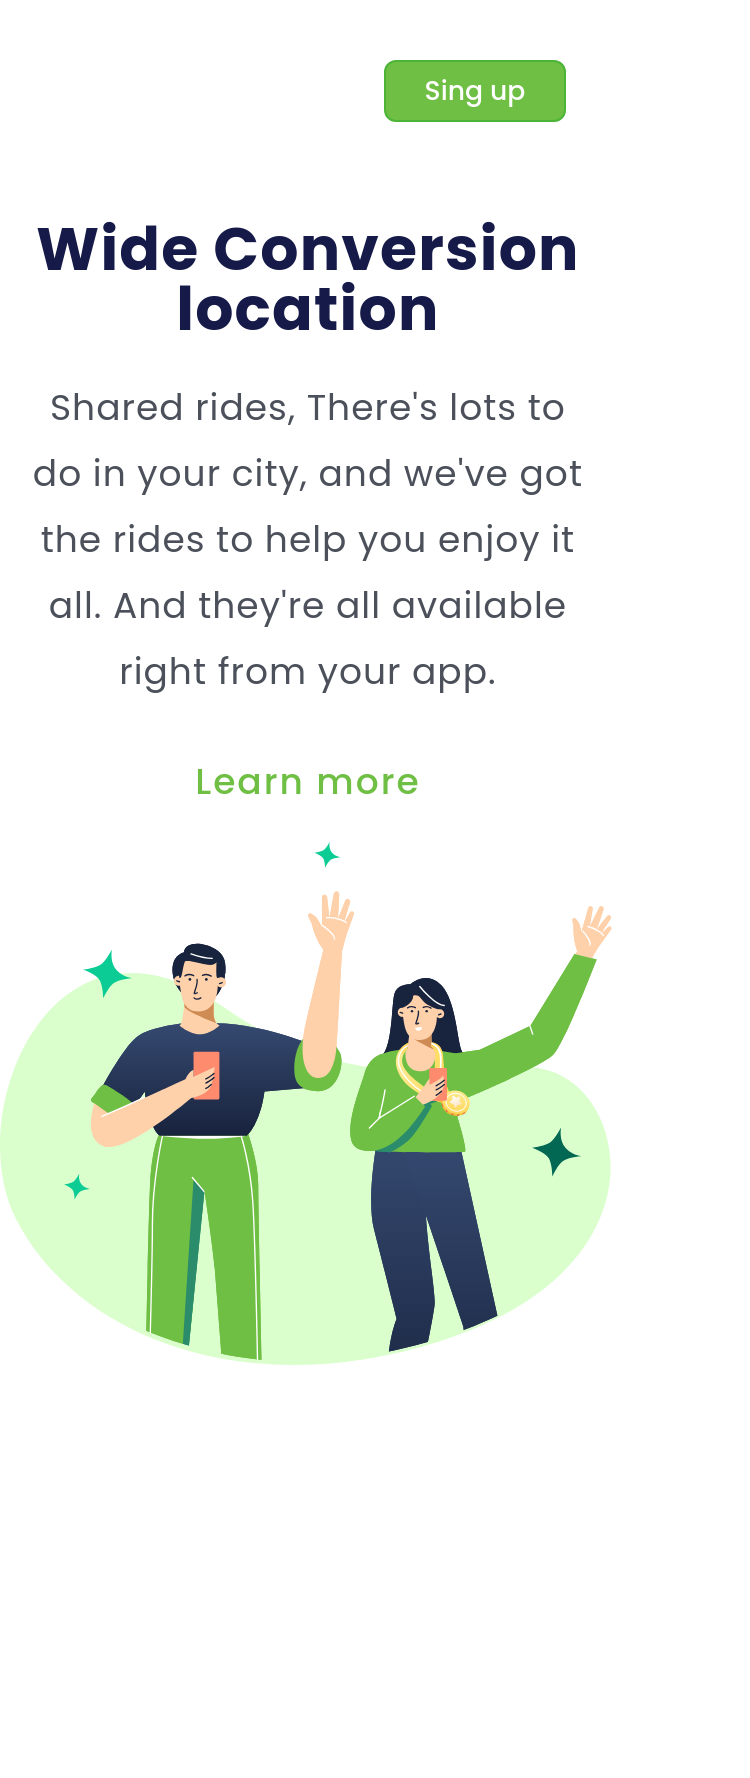
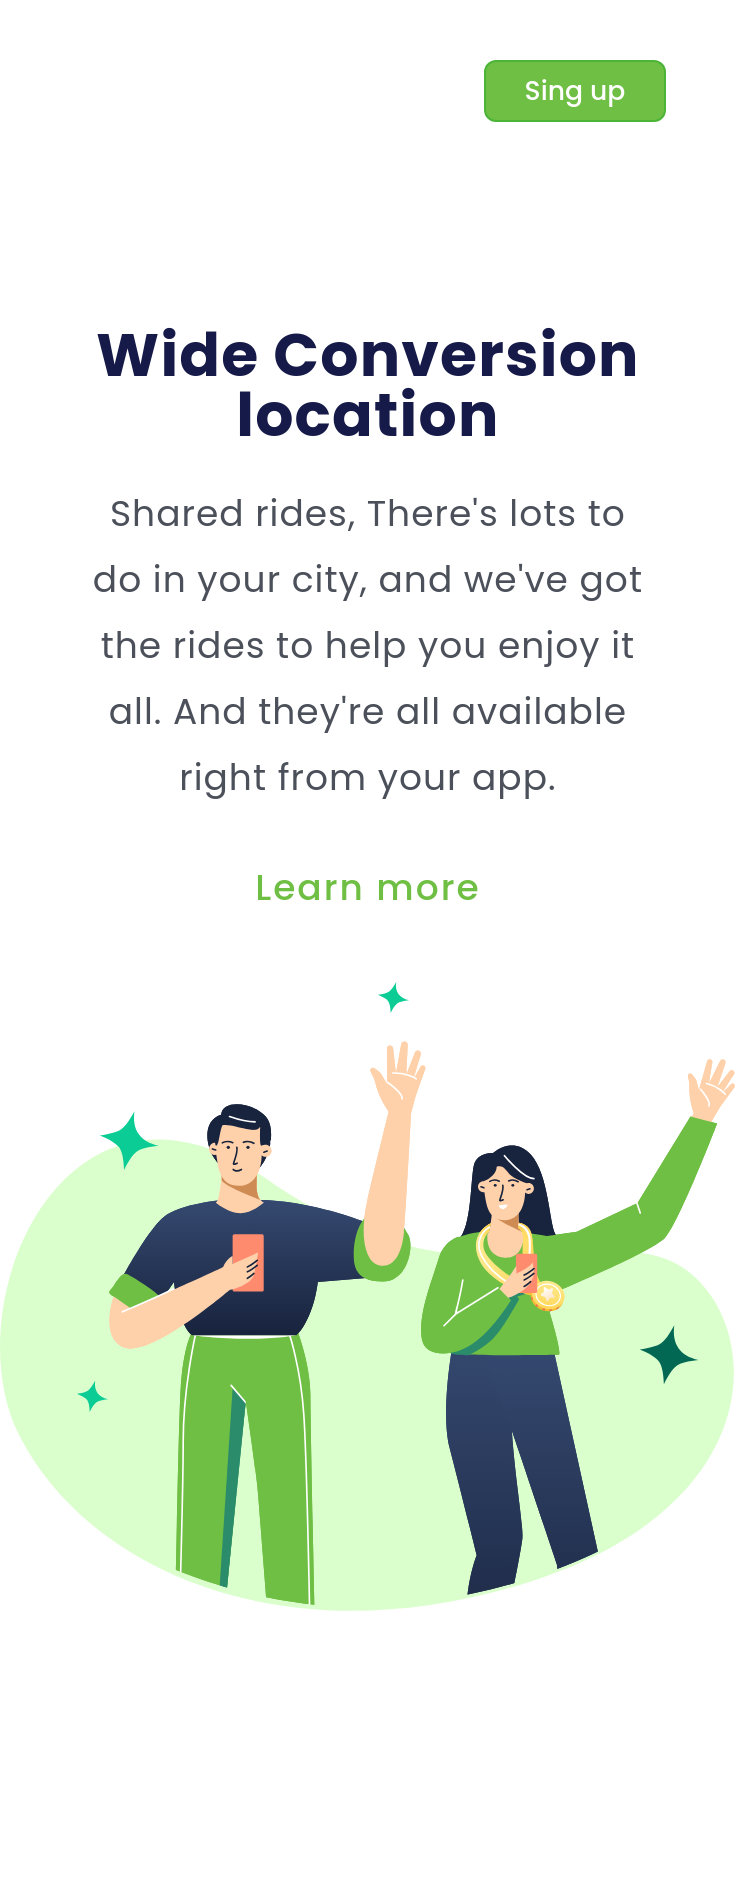
Fix Responsive IphoneSE

Changed region(s): [[0.0, 0.1237, 0.9813, 0.8661], [0.4907, 0.0309, 0.8893, 0.0928], [0.092, 0.6496, 0.1227, 0.6805]]

diff --git a/assets/css/style.css b/assets/css/style.css
@@ -84,26 +84,27 @@ p{
 @media (max-width: 375px){
     *{
         position: relative;
+        margin: 0px;
     }
     .header-link{
         display: none;
     }
 
     .button-header{
-        left: 150px;
+        left: 200px;
         bottom: 17px;
         width: 91px;
         height: 31px;
     }
     section{
         bottom: 600px;
-        right: 70px;
+        right: 40px;
         text-align: center;
     }
     .main-image{
-        width: 312px;
+        width: 100%;
         align-items: center;
-        top: 180px;
+        top: 250px;
     }
     h1{
         width: 278px;

diff --git a/README.md b/README.md
@@ -5,7 +5,7 @@
 [Click here to acess this page](https://autstories.github.io/Wide-Conversion-Location/)<br><br>
 ### To-do
 - [x] Desktop Version
-- [ ] Responsive for IphoneSE
+- [x] Responsive for IphoneSE
 - [ ] Add other pages<br>
 ### Screenshots: 
 <br>
